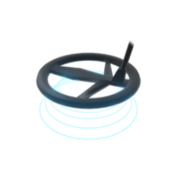
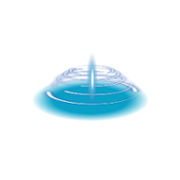
detector modes seperated

diff --git a/src/Components/DetectorModeSelector/DetectorModeSelector.js b/src/Components/DetectorModeSelector/DetectorModeSelector.js
@@ -4,6 +4,9 @@ import SocketHelper from '../../SocketHelper'
 
 import PulseIcon from '../../Assets/MenuIcons/mainmenu/pulse.png'
 import VlfIcon from '../../Assets/MenuIcons/mainmenu/vlf.png'
+import PS25Icon from '../../Assets/MenuIcons/mainmenu/ps28.png'
+import PS36Icon from '../../Assets/MenuIcons/mainmenu/ps36.png'
+
 
 import IndicatorIcon from '../../Assets/MenuIcons/button-indicator.png'
 import { DeviceContext } from '../../Contexts/DeviceContext'
@@ -24,7 +27,7 @@ class DetectorModeSelector extends React.Component {
     setTimeout(() => {
       this.domref.current.style.transform = "scale(1)"
       this.domref.current.style.opacity = 1
-    }, 100);
+    }, 100)
   }
 
   componentWillUnmount() {
@@ -40,29 +43,29 @@ class DetectorModeSelector extends React.Component {
         if (this.state.cursor > 0) {
           this.setState({ cursor: this.state.cursor - 1 })
         }
-        break;
+        break
       case 'right':
-        if (this.state.cursor < 2) {
+        if (this.state.cursor < 1) {
           this.setState({ cursor: this.state.cursor + 1 })
         }
-        break;
+        break
       case 'ok':
         if (this.state.cursor === 0) {
-          this.props.navigateTo('pulseScreen') 
-        }
-        else if (this.state.cursor === 1) {
+
           this.props.navigateTo('pulse2Screen')
         }
-        else if (this.state.cursor === 2) {
+        else if (this.state.cursor === 1) {
           this.props.navigateTo('nuggetScanScreen')
         }
-        return;
+        else if (this.state.cursor === 2) {
+        }
+        return
       case 'back':
         this.props.navigateTo('menuScreen')
-        return;
+        return
 
       default:
-        break;
+        break
     }
   }
 
@@ -70,7 +73,7 @@ class DetectorModeSelector extends React.Component {
     return (
       <div className="detector-mode-selector component">
         <div className="detector-modes" ref={this.domref}>
-          <div className="detector-mode">
+          {/* <div className="detector-mode">
             <div className="detector-mode-icon-holder">
               <img src={IndicatorIcon} alt="indicator" className="detector-mode-indicator" style={{ display: this.state.cursor === 0 ? 'block' : 'none' }} />
               <img src={PulseIcon} alt="dms" />
@@ -78,35 +81,34 @@ class DetectorModeSelector extends React.Component {
             <div className="detector-mode-title">
               {this.context.strings['detectorMode1']}
             </div>
+          </div> */}
+
+          <div className="detector-mode">
+            <div className="detector-mode-icon-holder">
+              <img src={IndicatorIcon} alt="indicator" className="detector-mode-indicator" style={{ display: this.state.cursor === 0 ? 'block' : 'none' }} />
+              <img src={PS36Icon} alt="dms" />
+            </div>
+            <div className="detector-mode-title">
+              {this.context.strings['detectorMode2']}
+
+            </div>
           </div>
 
           <div className="detector-mode">
             <div className="detector-mode-icon-holder">
               <img src={IndicatorIcon} alt="indicator" className="detector-mode-indicator" style={{ display: this.state.cursor === 1 ? 'block' : 'none' }} />
-              <img src={VlfIcon} alt="dms" />
+              <img src={PS25Icon} alt="dms" />
             </div>
             <div className="detector-mode-title">
-            {this.context.strings['detectorMode2']}
-
-            </div>
-          </div>
-
-          <div className="detector-mode">
-            <div className="detector-mode-icon-holder">
-              <img src={IndicatorIcon} alt="indicator" className="detector-mode-indicator" style={{ display: this.state.cursor === 2 ? 'block' : 'none' }} />
-              <img src={PulseIcon} alt="dms" />
-            </div>
-            <div className="detector-mode-title">
-            {this.context.strings['detectorMode3']}
+              {this.context.strings['detectorMode3']}
 
             </div>
           </div>
         </div>
 
         <div className="detector-mode-selector-info">
-          <span style={{ display: this.state.cursor === 0 ? 'inline' : 'none' }}>{this.context.strings['detectorMode1Desc']}</span>
-          <span style={{ display: this.state.cursor === 1 ? 'inline' : 'none' }}>{this.context.strings['detectorMode2Desc']}</span>
-          <span style={{ display: this.state.cursor === 2 ? 'inline' : 'none' }}>{this.context.strings['detectorMode3Desc']}</span>
+          <span style={{ display: this.state.cursor === 0 ? 'inline' : 'none' }}>{this.context.strings['detectorMode2Desc']}</span>
+          <span style={{ display: this.state.cursor === 1 ? 'inline' : 'none' }}>{this.context.strings['detectorMode3Desc']}</span>
         </div>
 
 

diff --git a/src/Components/ScanModes/Pulse/Pulse.js b/src/Components/ScanModes/Pulse/Pulse.js
@@ -141,7 +141,7 @@ class Pulse extends Component {
           clearInterval(this.dataInterval)
           SoundHelper.stopOscillator()
           if (this.context.device === "infinity") {
-            this.props.navigateTo('detectorModeSelectorScreen')
+            this.props.navigateTo('menuScreen')
           } else {
             this.props.navigateTo('menuScreen')
           }

diff --git a/src/Components/DetectorModeSelector/DetectorModeSelector.css b/src/Components/DetectorModeSelector/DetectorModeSelector.css
@@ -13,6 +13,7 @@
   transform: scale(0.5) rotate(20deg);
   opacity: 0;
   transition: all 0.6s;
+  justify-content: space-around;
 }
 
 .detector-mode {

diff --git a/src/Components/Reboot/Reboot.js b/src/Components/Reboot/Reboot.js
@@ -13,7 +13,6 @@ class Reboot extends React.Component {
     }, 5000);
   }
 
-
   render() {
     return (
       <div className="reboot component">
